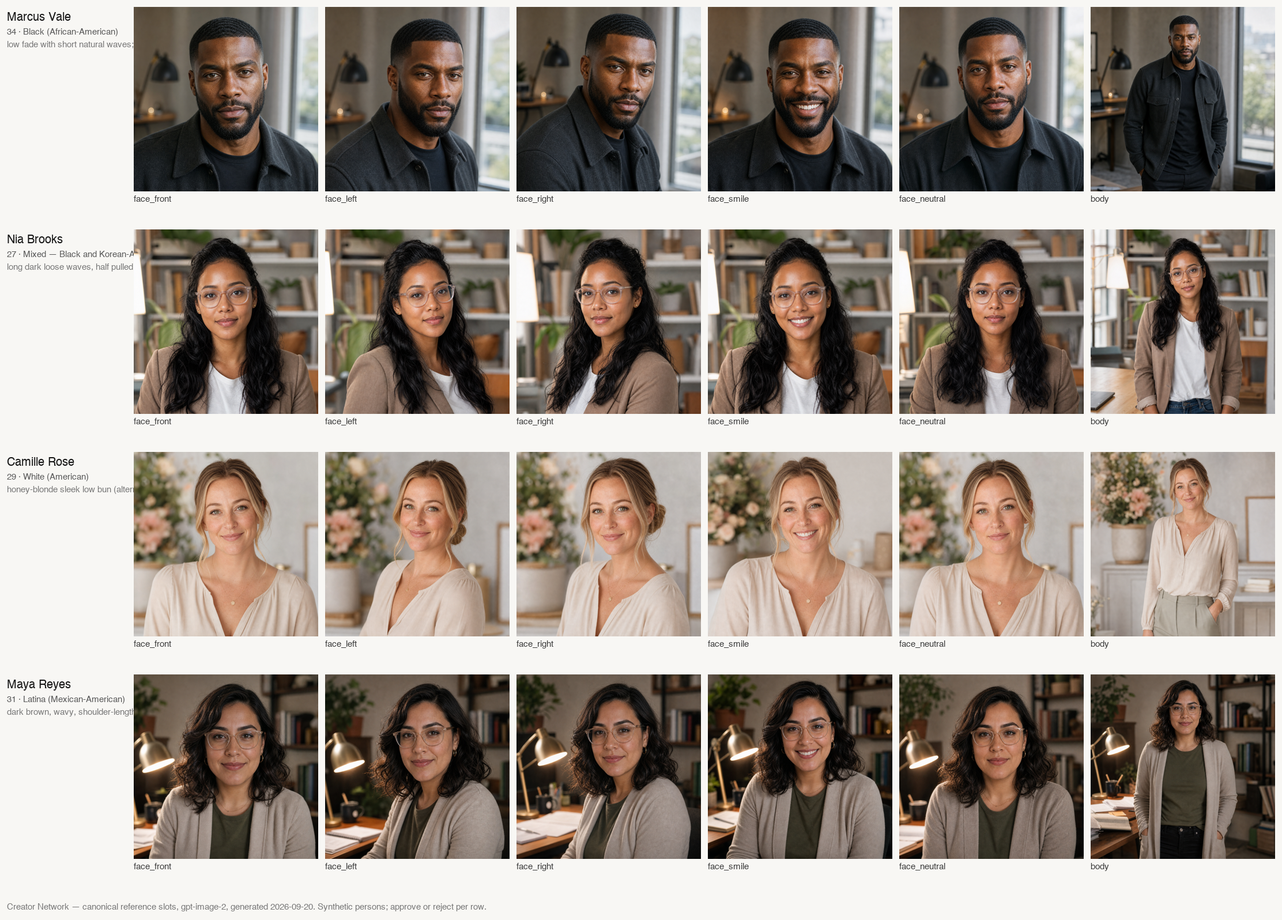
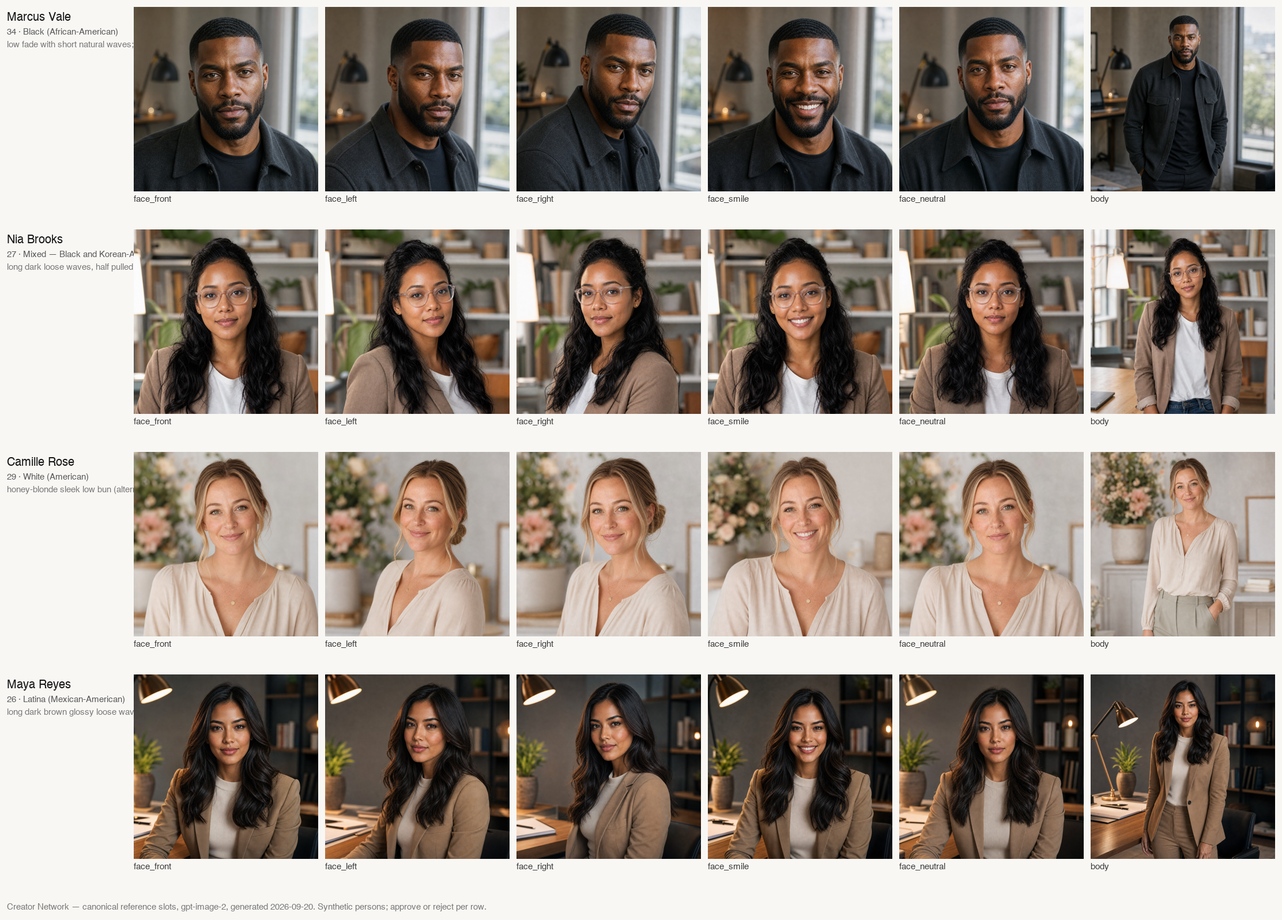
Phase 7: Maya recast per owner — 26, editorial polish; per-creator polish switch in the generator
Claude-Session: https://claude.ai/code/session_01WjKmsxh4FMmmHN1Xmj7Xdf

Changed region(s): [[0.031, 0.7061, 1.0, 0.9518]]

diff --git a/docs/PHASE7_CASTING_RESEARCH.md b/docs/PHASE7_CASTING_RESEARCH.md
@@ -45,9 +45,9 @@ Latina — and every generated shot states it, because models default to white w
 ## Maya Reyes — research-based explainers (Industry Guides)
 - **Comparables:** Tefi Pessoa (the internet's "big sister" — explainers that became trusted real-life advice),
   Vivian Tu (direct-to-camera finance explainers, blazer, plain-spoken). The 2026 educator-creator wave. ([Rolling Stone](https://www.rollingstone.com/culture/culture-lists/top-social-media-influencers-creators-2026-1235605189/), [Wikipedia: Vivian Tu](https://en.wikipedia.org/wiki/Vivian_Tu))
-- **Casting:** Latina woman (Mexican-American — the surname stays honest), 31, warm medium tan skin, dark brown wavy
-  shoulder-length hair, light-framed glasses, cardigan or soft blazer over a crew neck, grounded reassuring expression.
-  Desk with notes and a lamp.
+- **Casting (owner revision 2026-09-20 — younger, more modelesque):** Latina woman (Mexican-American), 26, warm
+  medium tan skin, long dark glossy waves, high cheekbones, full lips, editorial polish; fitted soft blazer over a ribbed
+  crew neck; clean desk with notes and a lamp.
 
 ## Generation route
 `npm run identities:generate` — `scripts/identity-references.mjs` inside the vault child (`OPENAI_IMAGE_API_KEY`,
